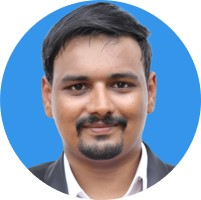
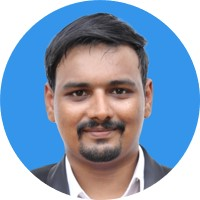
Minor updates

Changed region(s): [[0.12, 0.0, 0.87, 0.99]]

diff --git a/index.html b/index.html
@@ -5,11 +5,25 @@
         <meta http-equiv="X-UA-Compatible" content="IE=edge">
         <meta name="viewport" content="width=device-width, initial-scale=1.0">
         <title>Sabarish's Personal Site</title>
+    <style>
+        body {
+            background-color: lightblue;
+        }
+
+        hr {
+            border-style: none;
+            border-color: gray;
+            border-width: 5px;
+            border-top-style: dotted;
+            height: 0;
+            width: 5%;
+        }
+    </style>
     </head>
     <body>
         <table cellspacing="20">
             <tr>
-                <td><img src="images/Sabarish.jpg" alt="Sabarish profile picture"></td>
+                <td><img src="images/Sabarish.png" alt="Sabarish profile picture"></td>
                 <td>
                     <h1>Sabarish Vengkataramana</h1>
                     <p><em><strong>Manufacturing Digital Twin Engineer</strong> at <a href="https://www.india.ford.com/about-ford/corporate/company-profile/"><strong>Ford Motor Pvt. Ltd</strong></a>, Chennai, India</em></p>
